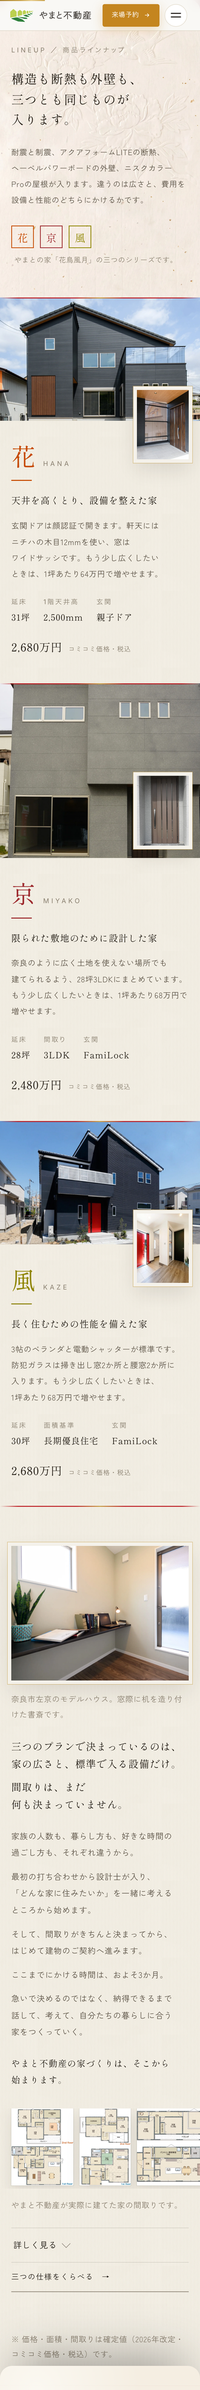
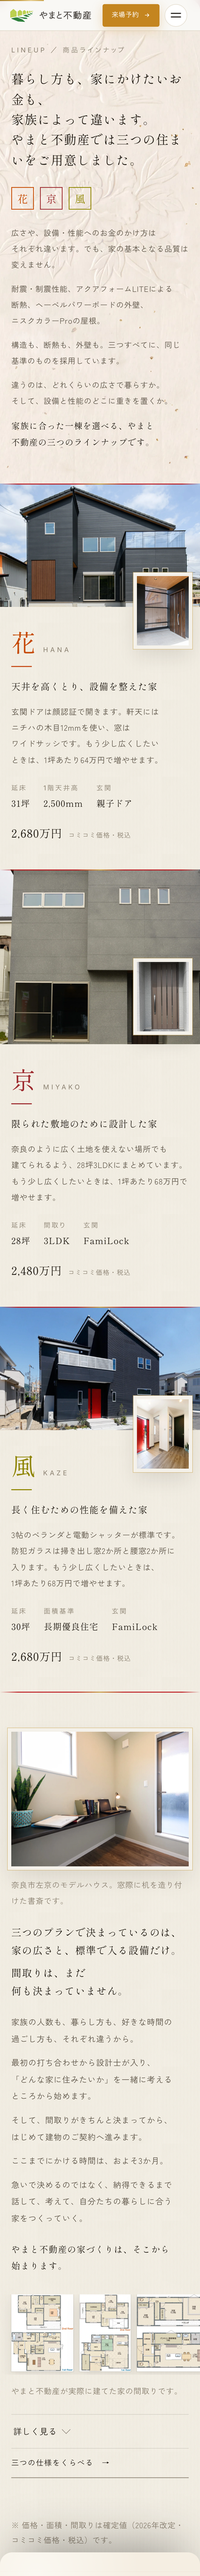
lineup: 折りたたみの中に紙と実物写真を入れ、章の入口コピーをユーザー指定版に
■ 折りたたみの中（ユーザー指摘「生成りが安っぽい。アクセントカラーや画像は？」）
中もテキスト6ブロックだけで、外と同じ平らな生成りだった。開いても面が変わらない。

1. 開いたら紙が変わる。.lu-more__in だけ一段深い紙にし、上端に内影を入れて
   「引き出しを開けた別の面」にした。左右は版面の外へ逃がして囲まれた場所に見せる
2. 段の話の実物を2枚。装飾ではなく被写体:
   ・外壁の接写（03_標準設備/exterior-wall.jpg・6192px）＝文字どおり変わらないもの
   ・夕暮れの空撮（assets/lots/aerial_poster.webp）＝同じに見えて同じ敷地はない
3. 設計する二人は写真が無いので、名前の格を上げて人として立てた
4. アクセントカラーは足していない。#C64A00/#7D4B4F/#908600 は商品の識別子なので
   ここで使うと意味が濁る。色は写真から来させる

コントラスト実測: 本文 #5C5346 が 6.17、見出し #241E16 が 13.48。
本案件の下限7.83は墨の本文に対する値で、灰茶の #5C5346 では純白でも7.56が上限。
WCAG AA 4.5 に対しては十分な余裕がある。

■ 章の入口をユーザー指定コピーに（一字一句そのまま）
「暮らし方も、家にかけたいお金も、家族によって違います。」から
「家族に合った一棟を選べる、やまと不動産の三つのラインナップです。」まで。
事実照合済み（アクアフォームLITE / ヘーベルパワーボード / ニスクカラーPro = パンフレット）。
「花・京・風」の一行は角印そのものが担うので、旧「やまとの家「花鳥風月」の…」の注記は外した。

■ 罠を1つ
@media (min-width:861px){ .lu-h span:nth-child(2){display:inline} } が残っていて、
新しい見出しが句の途中（「違いま/す。」）で折れていた。旧3分割見出し用の指定。撤去。

mobile-verify: #lineup 由来の FAIL 0。

diff --git a/index.html b/index.html
@@ -666,10 +666,20 @@
     font-size:clamp(1.5rem,1.02rem + 2.05vw,2.72rem);line-height:1.62;letter-spacing:.055em}
   /* 句ごとに inline-block。句の途中で折れて1〜2字が孤立するのを防ぐ */
   .lu-h span{display:inline-block}
-  @media (min-width:861px){ .lu-h span:nth-child(2){display:inline} }
+  /* 旧3分割見出し用の指定。いまの構成では句の途中で折れる原因になるため撤去 */
   .lu-lead{margin:clamp(30px,3.6vw,48px) 0 0;max-width:44em;line-break:strict;word-break:auto-phrase;
     font-size:clamp(.94rem,.88rem + .22vw,1.03rem);line-height:2.06;letter-spacing:.045em;color:var(--lu-sumi2)}
   /* 角印 — ブランド自身の三シリーズの呼び方（パンフ p2） */
+  /* ユーザー指定コピー（2026-08-21 章の入り口）。一字一句そのまま。
+     「花・京・風」の一行は角印そのものが担うので、注記は置かない。 */
+  .lu-oplead{margin:clamp(30px,3.6vw,46px) 0 0;max-width:calc(40 * 1.045em)}
+  .lu-oplead .lu-lead{margin:0 0 clamp(16px,1.9vw,24px)}
+  .lu-oplead .lu-lead:last-child{margin-bottom:0}
+  .lu-lead--end{font-family:var(--lu-fm);font-weight:400;color:var(--lu-sumi);
+    font-size:clamp(1.02rem,.96rem + .3vw,1.2rem);line-height:1.96;letter-spacing:.055em;
+    margin-top:clamp(24px,2.8vw,34px)}
+  .lu-seals{margin-bottom:0}
+
   .lu-seals{display:flex;flex-wrap:wrap;gap:12px;align-items:center;margin:clamp(34px,4.2vw,52px) 0 0}
   .lu-seal{display:grid;place-items:center;width:44px;height:44px;font-family:var(--lu-fm);
     font-weight:400;font-size:1.28rem;line-height:1;padding-top:.06em;letter-spacing:0;
@@ -815,7 +825,6 @@
      ② 1〜2行ごとの <p> をやめ、意味の単位で段落にまとめる
      ③ <br class="pcbr"> を外し、段幅で自然に折る（1行33字）
      ④ ラベル 12.8px グレー → 明朝 1.14rem。本文より大きくして見出しにする */
-  .lu-more__in{padding:0 4px clamp(28px,3.4vw,40px)}
   .lu-pair{display:grid;grid-template-columns:repeat(2,minmax(0,1fr));
     column-gap:clamp(40px,4.6vw,64px);row-gap:clamp(30px,3.4vw,44px);
     margin:clamp(26px,3vw,38px) 0 0;padding:clamp(24px,2.8vw,34px) 0 0;
@@ -848,6 +857,28 @@
      この節の主張は「この家は自分のものになる」。図面は証明にはなるが感情は運ばない。
      書斎＝標準仕様に無い、頼んだから存在する部屋。帯の小図版と同じ額装（生成りの縁＋金の毛罫）で、
      商品の4本目に見えないようにしている。 */
+  /* ── 開いたら紙が変わる ──
+     いままで折りたたみの中も外と同じ平らな生成りで、開いても面が変わらなかった。
+     中だけ紙を一段深くし、上端に内影を入れて「引き出しを開けた別の面」にする。 */
+  .lu-more__in{position:relative;
+    margin:0 calc(-1 * clamp(18px,2.4vw,40px));
+    padding:0 clamp(18px,2.4vw,40px) clamp(28px,3.4vw,40px);
+    background:linear-gradient(rgba(238,232,219,.55),rgba(238,232,219,.55)),
+      url("assets/std/page_kinari_letter_2400.webp") center/cover #EAE3D5;
+    background-size:auto, 62% auto;
+    box-shadow:inset 0 15px 28px -20px rgba(36,30,22,.42),
+      inset 0 -1px 0 rgba(36,30,22,.10)}
+  /* 段の話の実物を1枚ずつ。装飾ではなく被写体 */
+  .lu-figband{margin:clamp(30px,3.6vw,46px) 0 0}
+  .lu-figband img{display:block;width:100%;height:clamp(120px,15vw,190px);object-fit:cover;
+    box-shadow:0 0 0 1px rgba(36,30,22,.10)}
+  .lu-figband figcaption{margin:clamp(12px,1.5vw,18px) 0 0;
+    font-size:clamp(.95rem,.92rem + .1vw,.99rem);line-height:2.0;letter-spacing:.045em;
+    color:var(--lu-sumi3)}
+  .lu-figband + .lu-pair{margin-top:clamp(18px,2.2vw,28px);padding-top:0;border-top:0}
+  /* 二人は写真が無いので名前で立てる */
+  .lu-pair:last-of-type .lu-blk__h{font-size:clamp(1.28rem,1.1rem + .78vw,1.72rem)}
+
   .lu-freewrap{display:grid;grid-template-columns:minmax(0,1fr);gap:clamp(30px,3.4vw,44px)}
   @media (min-width:960px){
     .lu-freewrap{grid-template-columns:minmax(0,46%) minmax(0,1fr);
@@ -1651,13 +1682,19 @@
   <div class="lu-op">
     <div class="lu-op__in">
       <span class="lu-eyebrow" data-rise style="--d:.05">Lineup ／ 商品ラインナップ</span>
-      <h2 class="lu-h" data-rise style="--d:.14"><span>構造も断熱も外壁も、</span><span>三つとも同じものが</span><span>入ります。</span></h2>
-      <p class="lu-lead" data-rise style="--d:.26">耐震と制震、アクアフォームLITEの断熱、ヘーベルパワーボードの外壁、ニスクカラーProの屋根が入ります。違うのは広さと、費用を設備と性能のどちらにかけるかです。</p>
-      <div class="lu-seals" data-rise style="--d:.38">
+      <h2 class="lu-h" data-rise style="--d:.14"><span>暮らし方も、家にかけたいお金も、</span><span>家族によって違います。</span><br><span>やまと不動産では三つの住まいをご用意しました。</span></h2>
+      <div class="lu-seals" data-rise style="--d:.26">
         <span class="lu-seal lu-seal--hana">花</span>
         <span class="lu-seal lu-seal--kyo">京</span>
         <span class="lu-seal lu-seal--kaze">風</span>
-        <span class="lu-seals__note">やまとの家「花鳥風月」の三つのシリーズです。</span>
+      </div>
+      <div class="lu-oplead" data-rise style="--d:.36">
+        <p class="lu-lead">広さや、設備・性能へのお金のかけ方はそれぞれ違います。でも、家の基本となる品質は変えません。</p>
+        <p class="lu-lead">耐震・制震性能、アクアフォームLITEによる断熱、ヘーベルパワーボードの外壁、ニスクカラーProの屋根。</p>
+        <p class="lu-lead">構造も、断熱も、外壁も。三つすべてに、同じ基準のものを採用しています。</p>
+        <p class="lu-lead">違うのは、どれくらいの広さで暮らすか。そして、設備と性能のどこに重きを置くか。</p>
+        <p class="lu-lead lu-lead--end">家族に合った一棟を選べる、やまと不動産の三つのラインナップです。</p>
+      </div>
       </div>
     </div>
   </div>
@@ -1750,7 +1787,7 @@
       <div class="lu-doors">
         <details class="lu-more">
           <summary><span class="lu-more__open">詳しく見る</span><span class="lu-more__close">閉じる</span></summary>
-          <div class="lu-more__in"><div class="lu-pair"><div class="lu-blk"><h3 class="lu-blk__h">変わらないもの</h3><p class="lu-b">家の性能に関わる、構造や断熱。外壁や屋根、そして標準で入る設備。この部分は、最初からきちんと決めています。</p><p class="lu-b">三つのプランで違うのは、基準となる家の広さと、標準設備の内容です。</p><p class="lu-b">見えないところの品質まで含めて、家づくりの土台になる部分は、変えません。</p></div><div class="lu-blk"><h3 class="lu-blk__h">変えられるもの</h3><p class="lu-b">広さは、ご家族に合わせて変えることができます。基準の広さから、<b>1坪あたり64万円〜</b>で広げることができます。この金額には、建物だけでなく、広くなった分の基礎3.3㎡も含まれています。</p><p class="lu-b">必要なものを、必要なぶんだけ。無理に大きくするのではなく、暮らしにちょうどいい広さを一緒に考えていきます。</p></div></div><div class="lu-pair lu-pair--step"><div class="lu-blk"><span class="lu-blk__n">01</span><h3 class="lu-blk__h">敷地を読むところから始めます</h3><p class="lu-b">同じように見える分譲地でも、ひとつとして同じ敷地はありません。隣の建物の位置や高さによって、光の入り方も、風の通り道も、視線が抜ける方向も変わります。</p><p class="lu-b">まずは、その土地をきちんと見ること。その敷地だからこそできる暮らしを考えてから、間取りを描きはじめます。</p></div><div class="lu-blk"><span class="lu-blk__n">02</span><h3 class="lu-blk__h">いまの暮らしも、設計のヒントです</h3><p class="lu-b">「どんな家に住みたいですか？」もちろん、それも大切なことです。でも私たちは、いまのお住まいで感じている不満や、「こうしておけばよかった」ということも伺います。</p><p class="lu-b lu-ex">洗濯がしづらい。<br>収納が足りない。<br>朝、家族が同じ場所に集まってしまう。</p><p class="lu-b">そんな日常の小さな不便の中に、新しい家を良くするヒントがたくさんあります。理想と、いまの暮らし。その両方を一緒に整理しながら、ご家族に合った間取りをつくっていきます。</p></div></div><div class="lu-pair"><div class="lu-blk"><h3 class="lu-blk__h">栗野 佑也</h3><span class="lu-blk__r">KURINO Yuya / 設計士</span><p class="lu-b">家族が違えば、心地いい暮らし方も違います。だからこそ、そのご家族の生活や過ごし方をきちんと知り、そこに合った住まいをご提案したいと思っています。</p><p class="lu-b">家に帰ることが楽しみになる。そこで過ごす時間に、自然と笑顔が増えていく。そんな住まいを、一緒につくれたらと思っています。</p></div><div class="lu-blk"><h3 class="lu-blk__h">岩佐 篤志</h3><span class="lu-blk__r">IWASA Atsushi / 住宅デザイナー</span><p class="lu-b">現場監督や営業設計として、たくさんの家づくりに関わってきました。その経験も活かしながら、見た目だけではなく、暮らしやすさや施工まで考えた住まいをご提案します。</p><p class="lu-b">最初から、上手に希望を伝えなくても大丈夫です。何気ない会話の中から、まだ言葉になっていない「こんな家が好き」を一緒に見つけていけたらと思っています。</p></div></div></div>
+          <div class="lu-more__in"><figure class="lu-figband"><img src="assets/lineup/hero/wall.webp" alt="外壁ヘーベルパワーボードと木のルーバー" loading="lazy" decoding="async"><figcaption>外壁は三つとも同じ、ヘーベルパワーボードです。</figcaption></figure><div class="lu-pair"><div class="lu-blk"><h3 class="lu-blk__h">変わらないもの</h3><p class="lu-b">家の性能に関わる、構造や断熱。外壁や屋根、そして標準で入る設備。この部分は、最初からきちんと決めています。</p><p class="lu-b">三つのプランで違うのは、基準となる家の広さと、標準設備の内容です。</p><p class="lu-b">見えないところの品質まで含めて、家づくりの土台になる部分は、変えません。</p></div><div class="lu-blk"><h3 class="lu-blk__h">変えられるもの</h3><p class="lu-b">広さは、ご家族に合わせて変えることができます。基準の広さから、<b>1坪あたり64万円〜</b>で広げることができます。この金額には、建物だけでなく、広くなった分の基礎3.3㎡も含まれています。</p><p class="lu-b">必要なものを、必要なぶんだけ。無理に大きくするのではなく、暮らしにちょうどいい広さを一緒に考えていきます。</p></div></div><figure class="lu-figband"><img src="assets/lineup/hero/aerial.webp" alt="夕暮れの奈良。屋根が並ぶ住宅地を上空から" loading="lazy" decoding="async"><figcaption>同じように見えて、ひとつとして同じ敷地はありません。</figcaption></figure><div class="lu-pair lu-pair--step"><div class="lu-blk"><span class="lu-blk__n">01</span><h3 class="lu-blk__h">敷地を読むところから始めます</h3><p class="lu-b">同じように見える分譲地でも、ひとつとして同じ敷地はありません。隣の建物の位置や高さによって、光の入り方も、風の通り道も、視線が抜ける方向も変わります。</p><p class="lu-b">まずは、その土地をきちんと見ること。その敷地だからこそできる暮らしを考えてから、間取りを描きはじめます。</p></div><div class="lu-blk"><span class="lu-blk__n">02</span><h3 class="lu-blk__h">いまの暮らしも、設計のヒントです</h3><p class="lu-b">「どんな家に住みたいですか？」もちろん、それも大切なことです。でも私たちは、いまのお住まいで感じている不満や、「こうしておけばよかった」ということも伺います。</p><p class="lu-b lu-ex">洗濯がしづらい。<br>収納が足りない。<br>朝、家族が同じ場所に集まってしまう。</p><p class="lu-b">そんな日常の小さな不便の中に、新しい家を良くするヒントがたくさんあります。理想と、いまの暮らし。その両方を一緒に整理しながら、ご家族に合った間取りをつくっていきます。</p></div></div><div class="lu-pair"><div class="lu-blk"><h3 class="lu-blk__h">栗野 佑也</h3><span class="lu-blk__r">KURINO Yuya / 設計士</span><p class="lu-b">家族が違えば、心地いい暮らし方も違います。だからこそ、そのご家族の生活や過ごし方をきちんと知り、そこに合った住まいをご提案したいと思っています。</p><p class="lu-b">家に帰ることが楽しみになる。そこで過ごす時間に、自然と笑顔が増えていく。そんな住まいを、一緒につくれたらと思っています。</p></div><div class="lu-blk"><h3 class="lu-blk__h">岩佐 篤志</h3><span class="lu-blk__r">IWASA Atsushi / 住宅デザイナー</span><p class="lu-b">現場監督や営業設計として、たくさんの家づくりに関わってきました。その経験も活かしながら、見た目だけではなく、暮らしやすさや施工まで考えた住まいをご提案します。</p><p class="lu-b">最初から、上手に希望を伝えなくても大丈夫です。何気ない会話の中から、まだ言葉になっていない「こんな家が好き」を一緒に見つけていけたらと思っています。</p></div></div></div>
         </details>
         <a class="lu-doors__cta" href="madori.html#plans">三つの仕様をくらべる　→</a>
       </div>
